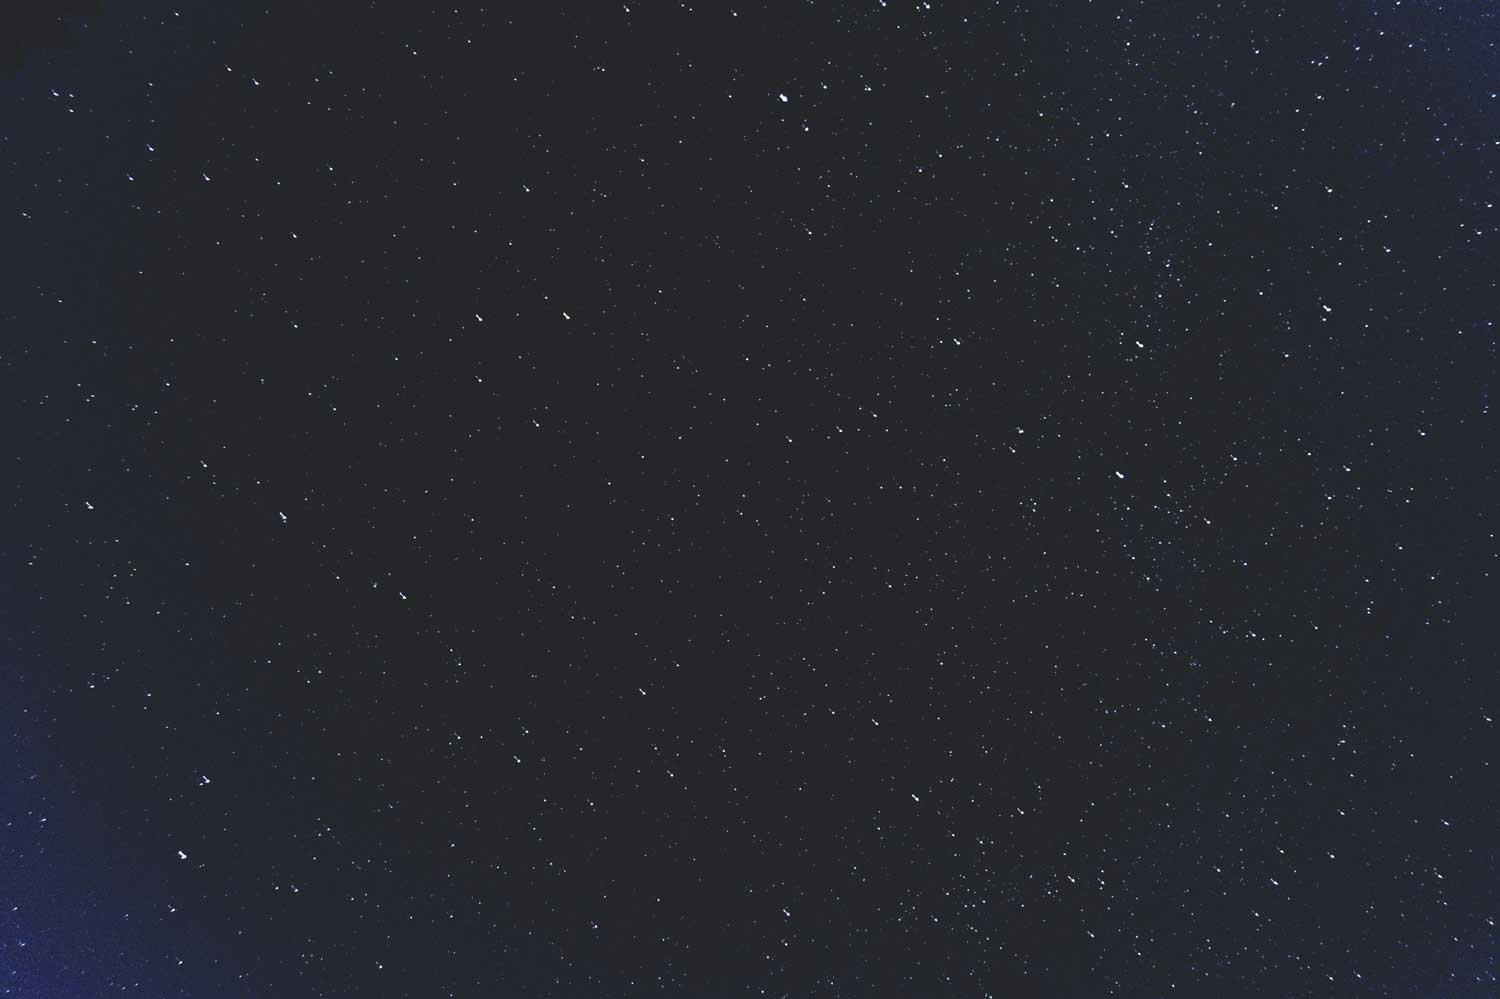
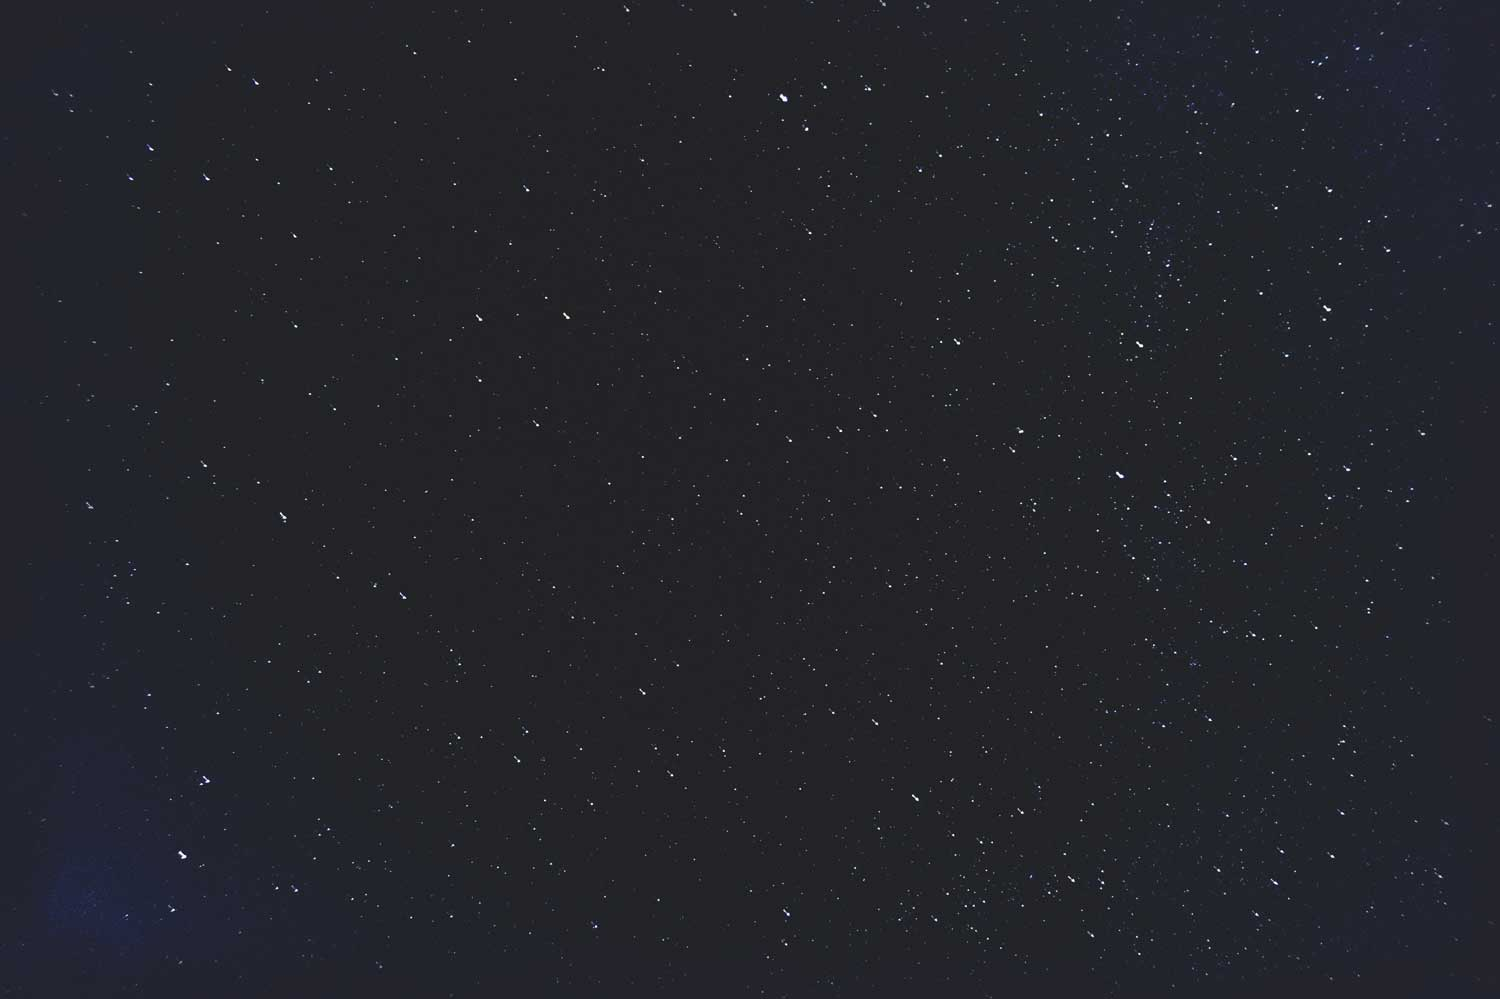
my first commit

Changed region(s): [[0.0, 0.8068, 0.1227, 1.0], [0.9813, 0.962, 1.0, 0.993], [0.9813, 0.0, 1.0, 0.031]]

diff --git a/Proposal/css/styles.css b/Proposal/css/styles.css
@@ -2,7 +2,7 @@
 
 body {
    background-image: url("../images/nightsky3.jpg");
-
+    box-shadow: 0 0 8px 8px black inset;
     background-color: black;
     color: white;
     font-family: 'Roboto', sans-serif;
